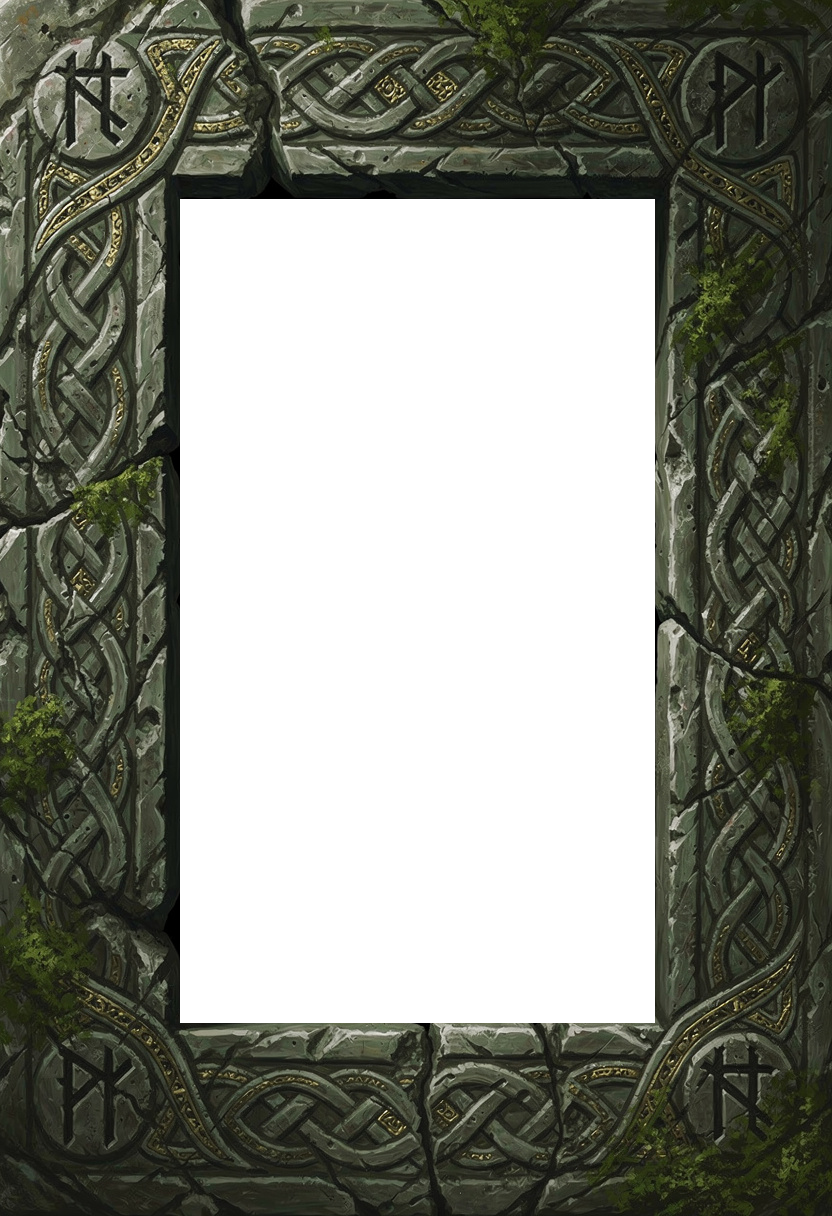
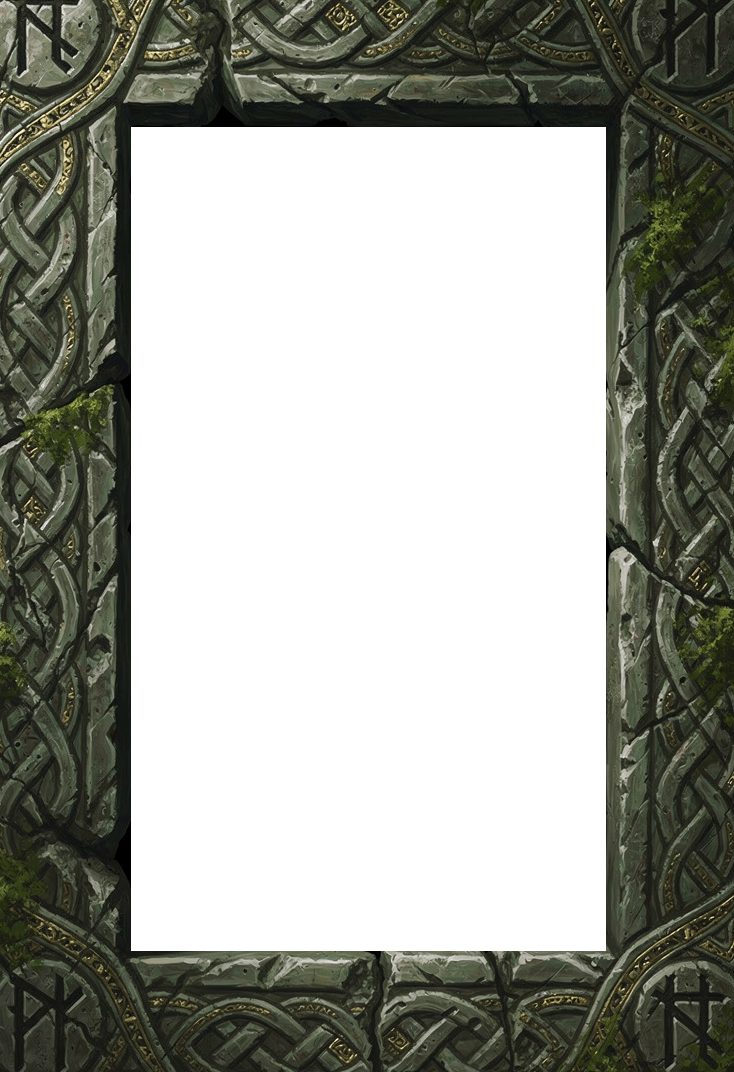
TASK-CARD-TEMPLATE-2: R8 crop 6%, updated regions, CardPlate

diff --git a/client/scripts/CardPlate.cs b/client/scripts/CardPlate.cs
@@ -11,8 +11,8 @@ public partial class CardPlate : Control
 {
     public CardPlate() { MouseFilter = MouseFilterEnum.Ignore; }
 
-    // Hardcoded from frame_1 window (180,199)-(655,1023) = 57.09%×67.76% of 832x1216
-    private static readonly float W_X = 0.2163f, W_Y = 0.1637f, W_W = 0.5709f, W_H = 0.6776f;
+    // Hardcoded from R8-cropped frame: window (131,127)-(606,951) = 64.71%×76.87% of 734x1072
+    private static readonly float W_X = 0.1785f, W_Y = 0.1185f, W_W = 0.6471f, W_H = 0.7687f;
     // Art = top 83%, Name = next 7%, Stat = bottom 10% of window height
     private static readonly float A_X = W_X, A_Y = W_Y, A_W = W_W, A_H = W_H * 0.83f;
     private static readonly float N_X = W_X, N_Y = W_Y + W_H * 0.83f, N_W = W_W, N_H = W_H * 0.07f;
